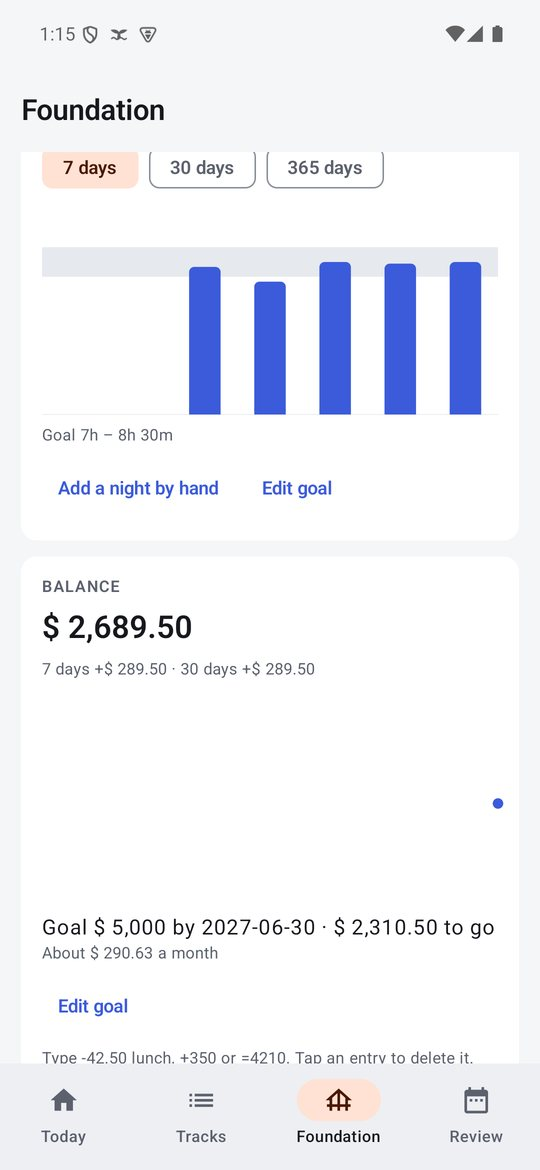
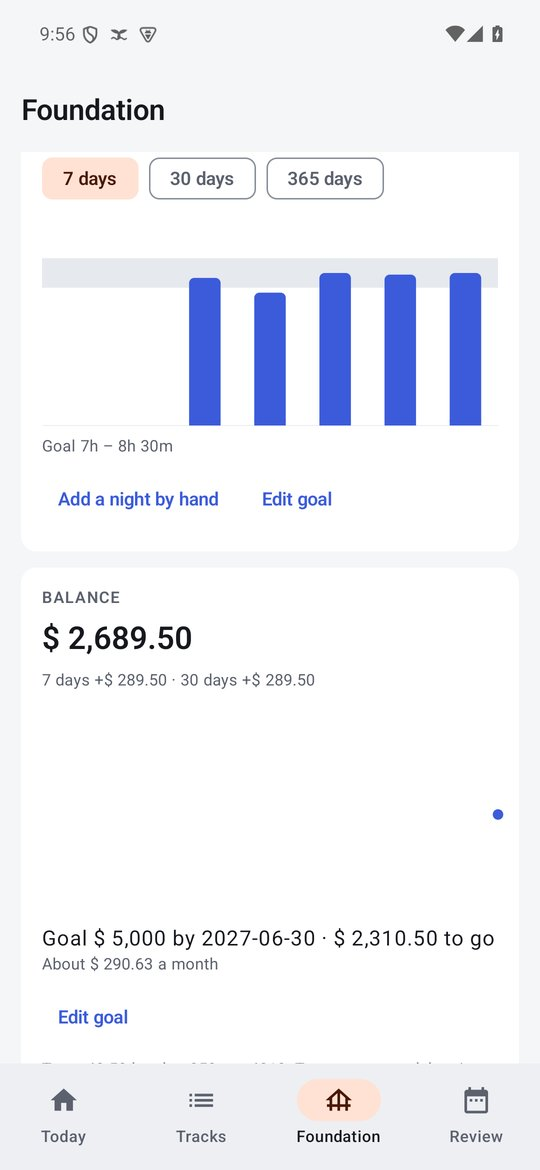
docs: refresh site screenshots and copy for the current app

diff --git a/docs/index.html b/docs/index.html
@@ -39,7 +39,7 @@
       <h2>How it works</h2>
     </div>
     <div class="steps">
-      <div class="step"><h3>Set a goal</h3><p>A book, a project, a skill.</p></div>
+      <div class="step"><h3>Set a goal</h3><p>Name it. AI drafts the plan.</p></div>
       <div class="step"><h3>Log it</h3><p>Time it. Write one line.</p></div>
       <div class="step"><h3>Review weekly</h3><p>Fix one thing next week.</p></div>
     </div>
@@ -52,7 +52,7 @@
       <h2>Screens</h2>
     </div>
     <div class="screens">
-      <figure class="phone"><div class="frame"><img src="img/today.jpg" alt="Today screen with a running timer"></div><figcaption>Today</figcaption></figure>
+      <figure class="phone"><div class="frame"><img src="img/today.jpg" alt="Today screen with a running timer and daily targets"></div><figcaption>Today</figcaption></figure>
       <figure class="phone"><div class="frame"><img src="img/review.jpg" alt="Weekly review with a summary table"></div><figcaption>Review</figcaption></figure>
       <figure class="phone"><div class="frame"><img src="img/foundation.jpg" alt="Foundation screen with sleep and savings goals"></div><figcaption>Foundation</figcaption></figure>
     </div>
@@ -66,7 +66,7 @@
     </div>
     <div class="features">
       <div class="feature"><div class="ic"><svg viewBox="0 0 24 24" fill="none" stroke="currentColor" stroke-width="2" stroke-linecap="round"><circle cx="12" cy="13" r="8"/><path d="M12 9v4l2.5 2.5M9 2h6"/></svg></div><div><h3>Timer</h3><p>One tap, from notifications.</p></div></div>
-      <div class="feature"><div class="ic"><svg viewBox="0 0 24 24" fill="none" stroke="currentColor" stroke-width="2" stroke-linecap="round" stroke-linejoin="round"><path d="M4 5h16v11H8l-4 4z"/></svg></div><div><h3>One input box</h3><p>Text or screenshots.</p></div></div>
+      <div class="feature"><div class="ic"><svg viewBox="0 0 24 24" fill="none" stroke="currentColor" stroke-width="2" stroke-linecap="round" stroke-linejoin="round"><path d="M4 5h16v11H8l-4 4z"/></svg></div><div><h3>One input box</h3><p>Text, photos or screenshots.</p></div></div>
       <div class="feature"><div class="ic"><svg viewBox="0 0 24 24" fill="none" stroke="currentColor" stroke-width="2" stroke-linecap="round" stroke-linejoin="round"><path d="M9 18h6M10 21h4M12 3a6 6 0 0 0-3.5 10.9c.6.5 1 1.2 1 2.1h5c0-.9.4-1.6 1-2.1A6 6 0 0 0 12 3z"/></svg></div><div><h3>Recall</h3><p>Quick quizzes, spaced revision.</p></div></div>
       <div class="feature"><div class="ic"><svg viewBox="0 0 24 24" fill="none" stroke="currentColor" stroke-width="2" stroke-linecap="round" stroke-linejoin="round"><path d="M3 12h4l3-8 4 16 3-8h4"/></svg></div><div><h3>Sleep and money</h3><p>Goals and trends.</p></div></div>
     </div>
